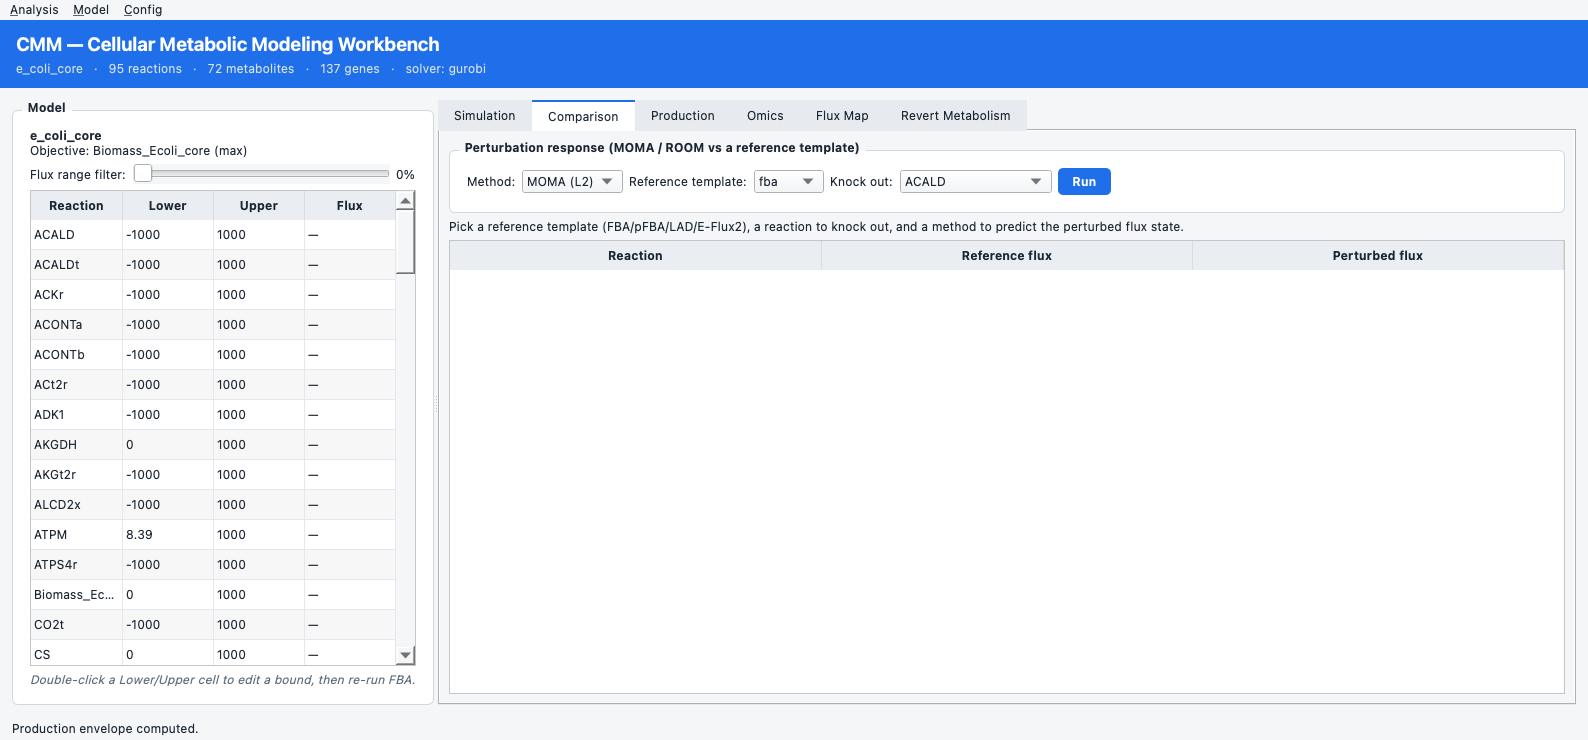
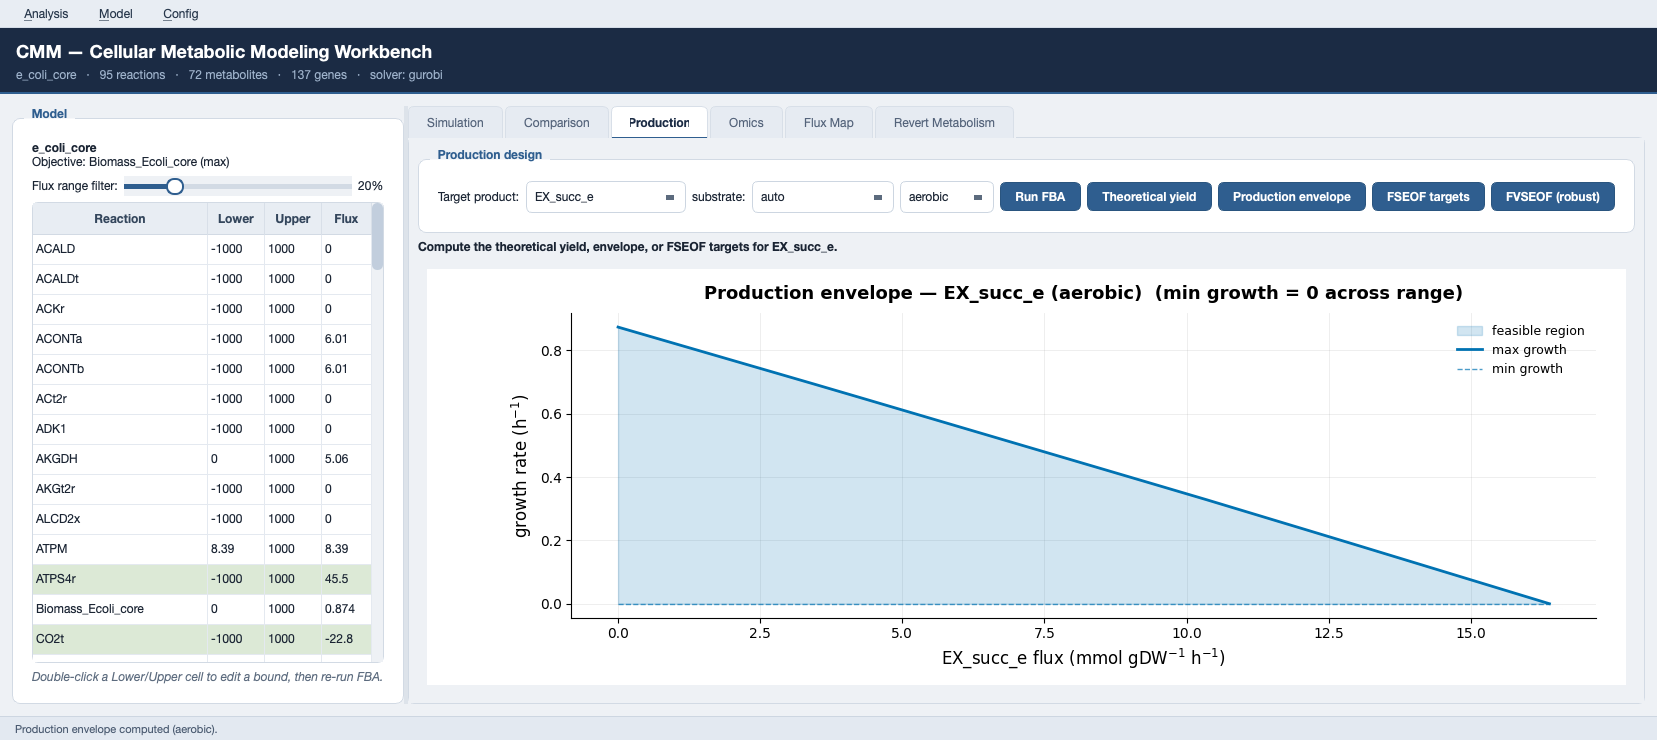
Redesign the GUI with the "Oxford Slate" academic palette
Replace the consumer-style bright blue (#1f6feb) with a restrained
academic/scientific-software look: a deep-navy header (#1b2b44) and a
steel-blue accent (#2f5e8f) over a cool-paper canvas. The bigger change is
coverage — the previous QSS only touched a few widgets, leaving combos, spin
boxes, the flux slider, the menu bar, scroll bars, and the status line as
default Qt chrome (the main reason it read as unfinished). The new stylesheet
styles every interactive widget into one cohesive tool:

- deep-navy title band with a steel accent rule; light menu bar
- steel-blue buttons with hover/pressed/disabled/focus states
- combo boxes (custom chevron + styled popup), spin boxes, and a steel flux
  slider with a filled sub-page
- tables with pale-slate headers, zebra rows, rounded borders, refined selection
- tabs with a steel underline on the active tab
- slim rounded scroll bars, splitter handle, status strip, and navy tooltips
- positive-flux / top-target highlight retuned to a soft sage (#dce9d6)

Status line gets objectName "statusbar" so it reads as a real status strip.
Publication matplotlib figures are unchanged (already Okabe-Ito, colour-blind
safe). README hero screenshots (overview, production_envelope) regenerated in
the new design; the other docs images are standalone figures, untouched.

129 tests pass, ruff clean — restyle only, no behavioural change.

diff --git a/src/cmm/app/main_window.py b/src/cmm/app/main_window.py
@@ -62,24 +62,107 @@ from cmm.visualization import (
     production_envelope_figure,
 )
 
+# "Oxford Slate" — an academic / scientific-software palette: a deep-navy header with a
+# restrained steel-blue accent over a cool-paper canvas. Every interactive widget (menus,
+# combos, spin boxes, the flux slider, scrollbars, the status strip, tooltips) is styled so
+# the workbench reads as one cohesive professional tool rather than default Qt chrome.
+#
+#   navy  #1b2b44   accent #2f5e8f (hover #274f79 / pressed #1f3f61)
+#   canvas #eef1f5  panels #ffffff  text #1a2433  muted #5c6b7e  border #d2dae4
 _STYLE = """
-QMainWindow, QWidget { background: #f4f6f8; color: #1c2733; font-size: 12px; }
-QLabel { background: transparent; }
-QLabel#title { color: white; font-size: 19px; font-weight: 600; }
-QLabel#subtitle { color: #d7e3ef; font-size: 12px; }
-QWidget#header { background: #1f6feb; }
-QGroupBox { font-weight: 600; border: 1px solid #d0d7de; border-radius: 6px;
-            margin-top: 10px; padding: 8px; background: white; }
-QGroupBox::title { subcontrol-origin: margin; left: 10px; padding: 0 4px; }
-QPushButton { background: #1f6feb; color: white; border: none; border-radius: 5px;
-              padding: 6px 14px; font-weight: 600; }
-QPushButton:hover { background: #1a5fd0; }
-QTableWidget { background: white; gridline-color: #e4e8ec;
-               selection-background-color: #cfe3ff; selection-color: #11243b; }
-QHeaderView::section { background: #eaeef2; padding: 5px; border: none;
-                       border-right: 1px solid #d8dde2; font-weight: 600; }
-QTabBar::tab { padding: 7px 16px; background: #e7ebef; }
-QTabBar::tab:selected { background: white; border-top: 2px solid #1f6feb; }
+QMainWindow, QWidget {
+    background: #eef1f5; color: #1a2433; font-size: 12px;
+    font-family: "Helvetica Neue", "Segoe UI", "Arial", sans-serif;
+}
+
+/* Title band */
+QWidget#header { background: #1b2b44; border-bottom: 2px solid #2f5e8f; }
+QLabel { background: transparent; color: #1a2433; }
+QLabel#title { color: #ffffff; font-size: 18px; font-weight: 700; }
+QLabel#subtitle { color: #9fb3cc; font-size: 12px; }
+QLabel#statusbar { background: #e3e9f1; color: #4a5a70;
+                   border-top: 1px solid #cdd6e1; padding: 5px 12px; font-size: 11px; }
+
+/* Menu bar */
+QMenuBar { background: #e8edf3; color: #27374b; border-bottom: 1px solid #d4dce6; padding: 2px 6px; }
+QMenuBar::item { background: transparent; padding: 5px 12px; border-radius: 4px; }
+QMenuBar::item:selected { background: #d6e3f2; color: #16324f; }
+QMenu { background: #ffffff; color: #1a2433; border: 1px solid #cdd6e1; padding: 4px; }
+QMenu::item { padding: 6px 26px 6px 18px; border-radius: 4px; }
+QMenu::item:selected { background: #2f5e8f; color: #ffffff; }
+QMenu::item:disabled { color: #8a98a8; }
+QMenu::separator { height: 1px; background: #dde3ea; margin: 4px 8px; }
+
+/* Cards */
+QGroupBox { font-weight: 600; color: #27374b; border: 1px solid #d2dae4; border-radius: 8px;
+            margin-top: 12px; padding: 12px 10px 10px 10px; background: #ffffff; }
+QGroupBox::title { subcontrol-origin: margin; left: 12px; padding: 0 6px; color: #2f5e8f; }
+
+/* Buttons */
+QPushButton { background: #2f5e8f; color: #ffffff; border: 1px solid #2a557f;
+              border-radius: 6px; padding: 6px 14px; font-weight: 600; }
+QPushButton:hover { background: #274f79; }
+QPushButton:pressed { background: #1f3f61; }
+QPushButton:disabled { background: #c2cedd; color: #eef1f5; border-color: #c2cedd; }
+QPushButton:focus { border: 1px solid #7da3c8; }
+
+/* Combo boxes */
+QComboBox { background: #ffffff; color: #1a2433; border: 1px solid #cdd6e1;
+            border-radius: 6px; padding: 4px 8px; min-height: 22px; }
+QComboBox:hover { border-color: #9bb4d0; }
+QComboBox:focus { border-color: #2f5e8f; }
+QComboBox::drop-down { border: none; width: 22px; }
+QComboBox::down-arrow { image: none; width: 0; height: 0; margin-right: 9px;
+    border-left: 4px solid transparent; border-right: 4px solid transparent;
+    border-top: 5px solid #5c6b7e; }
+QComboBox QAbstractItemView { background: #ffffff; color: #1a2433; border: 1px solid #cdd6e1;
+    selection-background-color: #2f5e8f; selection-color: #ffffff; outline: none; }
+
+/* Spin boxes */
+QDoubleSpinBox, QSpinBox { background: #ffffff; color: #1a2433; border: 1px solid #cdd6e1;
+    border-radius: 6px; padding: 3px 6px; min-height: 22px; }
+QDoubleSpinBox:focus, QSpinBox:focus { border-color: #2f5e8f; }
+
+/* Flux-range slider */
+QSlider::groove:horizontal { height: 5px; background: #d2dae4; border-radius: 3px; }
+QSlider::sub-page:horizontal { background: #2f5e8f; border-radius: 3px; }
+QSlider::handle:horizontal { background: #ffffff; border: 2px solid #2f5e8f;
+    width: 14px; height: 14px; margin: -6px 0; border-radius: 8px; }
+QSlider::handle:horizontal:hover { border-color: #274f79; }
+
+/* Tables */
+QTableWidget { background: #ffffff; alternate-background-color: #f5f8fb; color: #1a2433;
+    gridline-color: #e4e9f0; border: 1px solid #d2dae4; border-radius: 6px;
+    selection-background-color: #d6e3f2; selection-color: #16324f; }
+QTableWidget::item { padding: 3px 6px; }
+QHeaderView::section { background: #e8edf3; color: #34465c; padding: 6px 8px; border: none;
+    border-right: 1px solid #d8dfe8; border-bottom: 1px solid #d2dae4; font-weight: 600; }
+
+/* Tabs */
+QTabWidget::pane { border: 1px solid #d2dae4; border-radius: 6px; top: -1px; background: #ffffff; }
+QTabBar::tab { background: #e6ebf2; color: #54637a; padding: 8px 18px; margin-right: 2px;
+    border: 1px solid #d8dfe8; border-bottom: none;
+    border-top-left-radius: 6px; border-top-right-radius: 6px; }
+QTabBar::tab:hover { background: #eef2f7; color: #2f5e8f; }
+QTabBar::tab:selected { background: #ffffff; color: #1b2b44; font-weight: 600;
+    border-bottom: 2px solid #2f5e8f; margin-bottom: -1px; }
+
+/* Scrollbars */
+QScrollBar:vertical { background: transparent; width: 11px; margin: 0; }
+QScrollBar::handle:vertical { background: #c2cedd; border-radius: 5px; min-height: 28px; }
+QScrollBar::handle:vertical:hover { background: #a9b9cc; }
+QScrollBar:horizontal { background: transparent; height: 11px; margin: 0; }
+QScrollBar::handle:horizontal { background: #c2cedd; border-radius: 5px; min-width: 28px; }
+QScrollBar::handle:horizontal:hover { background: #a9b9cc; }
+QScrollBar::add-line, QScrollBar::sub-line { height: 0; width: 0; }
+QScrollBar::add-page, QScrollBar::sub-page { background: transparent; }
+
+/* Splitter + tooltips */
+QSplitter::handle { background: #dde3ea; }
+QSplitter::handle:horizontal { width: 6px; }
+QSplitter::handle:hover { background: #c2cedd; }
+QToolTip { background: #1b2b44; color: #ffffff; border: 1px solid #12203a;
+    padding: 5px 8px; border-radius: 4px; }
 """
 
 
@@ -145,7 +228,7 @@ class CmmMainWindow(QMainWindow):
         outer.addWidget(body, 1)
 
         self.status_label = QLabel("Ready.")
-        self.status_label.setContentsMargins(12, 4, 12, 4)
+        self.status_label.setObjectName("statusbar")
         outer.addWidget(self.status_label)
 
     def _build_menus(self) -> None:
@@ -271,7 +354,7 @@ class CmmMainWindow(QMainWindow):
         self.reaction_table.itemChanged.connect(self._on_bound_edited)
         layout.addWidget(self.reaction_table, 1)
         hint = QLabel("Double-click a Lower/Upper cell to edit a bound, then re-run FBA.")
-        hint.setStyleSheet("color: #5a6b7b; font-style: italic;")
+        hint.setStyleSheet("color: #5c6b7e; font-style: italic;")
         layout.addWidget(hint)
         return box
 
@@ -794,7 +877,7 @@ class CmmMainWindow(QMainWindow):
         for row in range(self.reaction_table.rowCount()):
             rid = self.reaction_table.item(row, 0).text()
             active = abs(self._fluxes.get(rid, 0.0)) >= threshold and threshold >= 0
-            color = QColor("#d7f0dd") if active and value > 0 else QColor("white")
+            color = QColor("#dce9d6") if active and value > 0 else QColor("white")
             for col in range(4):
                 item = self.reaction_table.item(row, col)
                 if item is not None:
@@ -1083,7 +1166,7 @@ class CmmMainWindow(QMainWindow):
             self.revert_table.setItem(i, 2, QTableWidgetItem(f"{record['score']:.4g}"))
             if i == 0:
                 for col in range(3):
-                    self.revert_table.item(i, col).setBackground(QColor("#d7f0dd"))
+                    self.revert_table.item(i, col).setBackground(QColor("#dce9d6"))
         best = ranking.best()
         if best is not None:
             self.revert_summary.setText(